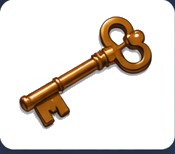
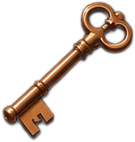
Add files via upload

diff --git a/app.js b/app.js
@@ -1,11 +1,152 @@
-const items=[{img:'auto.png'},{img:'hut.png'},{img:'lupe.png'},{img:'schluessel.png'},{img:'kompass.png'}];
-const viewport=document.querySelector('#viewport'),world=document.querySelector('#world'),targets=document.querySelector('#targets'),toast=document.querySelector('#toast'),sparkLayer=document.querySelector('#spark-layer');let found=new Set(),lives=3,scale=1,tx=0,ty=0,pointers=new Map(),startDist=0,startScale=1,startMid=null,startTransform=null,moved=false,animating=new Set();
-function render(){targets.innerHTML=items.map((o,i)=>`<div class="target ${found.has(i)?'done':''}" data-target-id="${i}"><img src="${o.img}" alt="Suchobjekt">${found.has(i)?'<span class="check">✓</span>':''}</div>`).join('');document.querySelector('#score').textContent=`${found.size}/${items.length}`;document.querySelector('#lives').textContent=`❤ ${lives}`;document.querySelectorAll('.object').forEach((o,i)=>o.classList.toggle('gone',found.has(i)))}
-let mt;function msg(t,d=1000){clearTimeout(mt);toast.textContent=t;toast.classList.add('show');mt=setTimeout(()=>toast.classList.remove('show'),d)}
-function apply(){const r=viewport.getBoundingClientRect(),wr=world.offsetWidth*scale,hr=world.offsetHeight*scale;tx=Math.min(0,Math.max(r.width-wr,tx));ty=Math.min(0,Math.max(r.height-hr,ty));world.style.transform=`translate(${tx}px,${ty}px) scale(${scale})`}function resetView(){scale=1;tx=0;ty=0;apply()}
-function burst(x,y){for(let n=0;n<12;n++){const s=document.createElement('i'),a=Math.PI*2*n/12,dist=30+Math.random()*36;s.className='spark';s.style.left=x+'px';s.style.top=y+'px';s.style.setProperty('--dx',Math.cos(a)*dist+'px');s.style.setProperty('--dy',Math.sin(a)*dist+'px');sparkLayer.appendChild(s);setTimeout(()=>s.remove(),720)}}
-async function collect(i,obj){if(found.has(i)||animating.has(i))return;animating.add(i);const from=obj.getBoundingClientRect(),to=document.querySelector(`[data-target-id="${i}"] img`).getBoundingClientRect(),cx=from.left+from.width/2,cy=from.top+from.height/2;burst(cx,cy);const flyer=document.createElement('img');flyer.className='fly-item';flyer.src=items[i].img;Object.assign(flyer.style,{left:from.left+'px',top:from.top+'px',width:from.width+'px',height:from.height+'px'});document.body.appendChild(flyer);obj.classList.add('collecting');requestAnimationFrame(()=>requestAnimationFrame(()=>{flyer.classList.add('flying');Object.assign(flyer.style,{left:to.left+'px',top:to.top+'px',width:to.width+'px',height:to.height+'px'})}));await new Promise(r=>setTimeout(r,680));flyer.remove();found.add(i);animating.delete(i);render();const card=document.querySelector(`[data-target-id="${i}"]`);card.classList.add('landed');setTimeout(()=>card?.classList.remove('landed'),550);msg('✓ Gefunden');if(found.size===items.length)setTimeout(()=>msg('🎉 Level geschafft!',1800),650)}
-document.querySelectorAll('.object').forEach(o=>o.addEventListener('click',e=>{if(moved){e.preventDefault();return}collect(+o.dataset.id,o)}));
-viewport.addEventListener('pointerdown',e=>{viewport.setPointerCapture(e.pointerId);pointers.set(e.pointerId,{x:e.clientX,y:e.clientY,ox:e.clientX,oy:e.clientY});moved=false;if(pointers.size===2){const a=[...pointers.values()];startDist=Math.hypot(a[0].x-a[1].x,a[0].y-a[1].y);startScale=scale;startMid={x:(a[0].x+a[1].x)/2,y:(a[0].y+a[1].y)/2};startTransform={tx,ty}}});
-viewport.addEventListener('pointermove',e=>{const p=pointers.get(e.pointerId);if(!p)return;const old={x:p.x,y:p.y};p.x=e.clientX;p.y=e.clientY;if(Math.hypot(p.x-p.ox,p.y-p.oy)>7)moved=true;if(pointers.size===1&&scale>1){tx+=p.x-old.x;ty+=p.y-old.y;apply()}else if(pointers.size===2){moved=true;const a=[...pointers.values()],d=Math.hypot(a[0].x-a[1].x,a[0].y-a[1].y),ns=Math.max(1,Math.min(3.5,startScale*d/startDist)),vr=viewport.getBoundingClientRect(),mx=startMid.x-vr.left,my=startMid.y-vr.top;tx=mx-(mx-startTransform.tx)*(ns/startScale);ty=my-(my-startTransform.ty)*(ns/startScale);scale=ns;apply()}});['pointerup','pointercancel'].forEach(ev=>viewport.addEventListener(ev,e=>{pointers.delete(e.pointerId);if(!pointers.size)setTimeout(()=>moved=false,0)}));
-document.querySelector('#hint').onclick=()=>{const i=items.findIndex((_,i)=>!found.has(i)&&!animating.has(i));if(i<0)return;const o=document.querySelector(`.object[data-id="${i}"]`);o.classList.add('hint-ring');setTimeout(()=>o.classList.remove('hint-ring'),1900);msg('💡 Schau genau hin')};document.querySelector('#reset').onclick=()=>{found.clear();animating.clear();lives=3;resetView();document.querySelectorAll('.object').forEach(o=>o.classList.remove('collecting','gone'));document.querySelectorAll('.fly-item').forEach(f=>f.remove());render();msg('Neu gestartet')};render();addEventListener('resize',apply);if('serviceWorker' in navigator){navigator.serviceWorker.getRegistrations().then(rs=>rs.forEach(r=>r.unregister()));caches.keys().then(ks=>Promise.all(ks.map(k=>caches.delete(k))))}
+const items=[
+  {img:'laterne.png'},
+  {img:'stiefel.png'},
+  {img:'schluessel.png'},
+  {img:'fernglas.png'},
+  {img:'auto.png'}
+];
+
+const viewport=document.querySelector('#viewport');
+const world=document.querySelector('#world');
+const targets=document.querySelector('#targets');
+const toast=document.querySelector('#toast');
+const sparkLayer=document.querySelector('#spark-layer');
+
+let found=new Set();
+let lives=3;
+let scale=1,tx=0,ty=0;
+let pointers=new Map();
+let startDist=0,startScale=1,startMid=null,startTransform=null;
+let moved=false;
+let animating=new Set();
+
+function render(){
+  targets.innerHTML=items.map((o,i)=>`<div class="target ${found.has(i)?'done':''}" data-target-id="${i}"><img src="${o.img}" alt="Suchobjekt">${found.has(i)?'<span class="check">✓</span>':''}</div>`).join('');
+  document.querySelector('#score').textContent=`${found.size}/${items.length}`;
+  document.querySelector('#lives').textContent=`❤ ${lives}`;
+  document.querySelectorAll('.object').forEach((o)=>o.classList.toggle('gone',found.has(+o.dataset.id)));
+}
+
+let mt;
+function msg(t,d=1000){clearTimeout(mt);toast.textContent=t;toast.classList.add('show');mt=setTimeout(()=>toast.classList.remove('show'),d)}
+
+function clamp(){
+  const r=viewport.getBoundingClientRect();
+  const wr=world.offsetWidth*scale,hr=world.offsetHeight*scale;
+  tx=wr<=r.width?(r.width-wr)/2:Math.min(0,Math.max(r.width-wr,tx));
+  ty=hr<=r.height?(r.height-hr)/2:Math.min(0,Math.max(r.height-hr,ty));
+}
+function apply(){clamp();world.style.transform=`translate(${tx}px,${ty}px) scale(${scale})`}
+function resetView(){
+  scale=1;
+  requestAnimationFrame(()=>{tx=(viewport.clientWidth-world.offsetWidth)/2;ty=0;apply()});
+}
+
+function burst(x,y){
+  for(let n=0;n<12;n++){
+    const s=document.createElement('i');
+    const a=Math.PI*2*n/12,dist=30+Math.random()*36;
+    s.className='spark';s.style.left=x+'px';s.style.top=y+'px';
+    s.style.setProperty('--dx',Math.cos(a)*dist+'px');s.style.setProperty('--dy',Math.sin(a)*dist+'px');
+    sparkLayer.appendChild(s);setTimeout(()=>s.remove(),720);
+  }
+}
+
+async function collect(i,obj){
+  if(found.has(i)||animating.has(i))return;
+  animating.add(i);
+  const from=obj.getBoundingClientRect();
+  const targetImg=document.querySelector(`[data-target-id="${i}"] img`);
+  const to=targetImg.getBoundingClientRect();
+  burst(from.left+from.width/2,from.top+from.height/2);
+
+  const flyer=document.createElement('img');
+  flyer.className='fly-item';flyer.src=items[i].img;
+  Object.assign(flyer.style,{left:from.left+'px',top:from.top+'px',width:from.width+'px',height:from.height+'px'});
+  document.body.appendChild(flyer);
+  obj.classList.add('collecting');
+
+  requestAnimationFrame(()=>requestAnimationFrame(()=>{
+    flyer.classList.add('flying');
+    Object.assign(flyer.style,{left:to.left+'px',top:to.top+'px',width:to.width+'px',height:to.height+'px'});
+  }));
+
+  await new Promise(r=>setTimeout(r,680));
+  flyer.remove();
+  found.add(i);animating.delete(i);render();
+  const card=document.querySelector(`[data-target-id="${i}"]`);
+  card.classList.add('landed');setTimeout(()=>card?.classList.remove('landed'),550);
+  msg('✓ Gefunden');
+  if(found.size===items.length)setTimeout(()=>msg('🎉 Level geschafft!',1800),650);
+}
+
+document.querySelectorAll('.object').forEach(o=>o.addEventListener('click',e=>{
+  if(moved){e.preventDefault();return}
+  collect(+o.dataset.id,o);
+}));
+
+viewport.addEventListener('pointerdown',e=>{
+  viewport.setPointerCapture(e.pointerId);
+  pointers.set(e.pointerId,{x:e.clientX,y:e.clientY,ox:e.clientX,oy:e.clientY});
+  moved=false;
+  if(pointers.size===2){
+    const a=[...pointers.values()];
+    startDist=Math.hypot(a[0].x-a[1].x,a[0].y-a[1].y);
+    startScale=scale;
+    startMid={x:(a[0].x+a[1].x)/2,y:(a[0].y+a[1].y)/2};
+    startTransform={tx,ty};
+  }
+});
+
+viewport.addEventListener('pointermove',e=>{
+  const p=pointers.get(e.pointerId);if(!p)return;
+  const old={x:p.x,y:p.y};p.x=e.clientX;p.y=e.clientY;
+  if(Math.hypot(p.x-p.ox,p.y-p.oy)>7)moved=true;
+
+  if(pointers.size===1){
+    const r=viewport.getBoundingClientRect();
+    const canPan=world.offsetWidth*scale>r.width+1||world.offsetHeight*scale>r.height+1;
+    if(canPan){tx+=p.x-old.x;ty+=p.y-old.y;apply()}
+  }else if(pointers.size===2){
+    moved=true;
+    const a=[...pointers.values()];
+    const d=Math.hypot(a[0].x-a[1].x,a[0].y-a[1].y);
+    const ns=Math.max(1,Math.min(3.5,startScale*d/startDist));
+    const vr=viewport.getBoundingClientRect();
+    const mx=startMid.x-vr.left,my=startMid.y-vr.top;
+    tx=mx-(mx-startTransform.tx)*(ns/startScale);
+    ty=my-(my-startTransform.ty)*(ns/startScale);
+    scale=ns;apply();
+  }
+});
+
+['pointerup','pointercancel'].forEach(ev=>viewport.addEventListener(ev,e=>{
+  pointers.delete(e.pointerId);
+  if(!pointers.size)setTimeout(()=>moved=false,0);
+}));
+
+document.querySelector('#hint').onclick=()=>{
+  const i=items.findIndex((_,i)=>!found.has(i)&&!animating.has(i));
+  if(i<0)return;
+  const o=document.querySelector(`.object[data-id="${i}"]`);
+  o.classList.add('hint-ring');setTimeout(()=>o.classList.remove('hint-ring'),1900);
+  msg('💡 Schau genau hin');
+};
+
+document.querySelector('#reset').onclick=()=>{
+  found.clear();animating.clear();lives=3;
+  document.querySelectorAll('.object').forEach(o=>o.classList.remove('collecting','gone'));
+  document.querySelectorAll('.fly-item').forEach(f=>f.remove());
+  render();resetView();msg('Neu gestartet');
+};
+
+render();
+addEventListener('resize',resetView);
+window.addEventListener('load',resetView);
+
+// Während der Entwicklung absichtlich ohne Service-Worker-Cache,
+// damit GitHub Pages auf dem iPhone immer die aktuelle Version lädt.
+if('serviceWorker' in navigator){
+  navigator.serviceWorker.getRegistrations().then(rs=>rs.forEach(r=>r.unregister()));
+  caches.keys().then(ks=>Promise.all(ks.map(k=>caches.delete(k))));
+}

diff --git a/style.css b/style.css
@@ -1,9 +1,43 @@
-*{box-sizing:border-box}html,body{margin:0;background:#29295d;color:#fff;font-family:system-ui,-apple-system,sans-serif;overscroll-behavior:none}body{height:100dvh;overflow:hidden}main{height:100dvh;max-width:600px;margin:auto;display:grid;grid-template-rows:auto minmax(0,1fr) auto;background:#35346f}header{padding:max(9px,env(safe-area-inset-top)) 14px 9px;display:flex;justify-content:space-between;align-items:center;font-size:17px;z-index:3}header small{font-size:10px;opacity:.55}#viewport{position:relative;overflow:hidden;background:#15152d;touch-action:none}#world{position:absolute;left:0;top:0;width:100%;aspect-ratio:941/1283;transform-origin:0 0;will-change:transform}#scene{width:100%;height:100%;display:block;user-select:none;-webkit-user-drag:none}.object{position:absolute;z-index:3;border:0;background:transparent;padding:0;touch-action:none}.object img{width:100%;height:100%;display:block;object-fit:fill}.object[data-id="0"]{left:52.3%;top:57.8%;width:8.5%;height:5.6%}.object[data-id="1"]{left:88.7%;top:6.7%;width:10.5%;height:8.5%}.object[data-id="2"]{left:24.5%;top:60.2%;width:12.5%;height:7.8%}.object[data-id="3"]{left:47.5%;top:65.6%;width:10.5%;height:7.2%}.object[data-id="4"]{left:0;top:61.5%;width:12%;height:8.8%}.object.gone{visibility:hidden}.object.collecting{opacity:0;pointer-events:none}#toast{position:absolute;z-index:8;left:50%;top:9%;transform:translateX(-50%);padding:9px 15px;border-radius:18px;background:#24234cdd;opacity:0;transition:.2s;white-space:nowrap;pointer-events:none;box-shadow:0 4px 18px #0005}.show{opacity:1!important}#spark-layer{position:fixed;inset:0;z-index:1000;pointer-events:none}.spark{position:absolute;width:8px;height:8px;margin:-4px;border-radius:50%;background:#ffd85f;box-shadow:0 0 10px #fff2a8;animation:spark .7s ease-out forwards}@keyframes spark{to{transform:translate(var(--dx),var(--dy)) scale(.1);opacity:0}}.fly-item{position:fixed;z-index:999;object-fit:contain;border-radius:10px;pointer-events:none;filter:drop-shadow(0 0 7px #ffe167) drop-shadow(0 5px 7px #0008);transition:left .62s cubic-bezier(.2,.75,.25,1),top .62s cubic-bezier(.2,.75,.25,1),width .62s cubic-bezier(.2,.75,.25,1),height .62s cubic-bezier(.2,.75,.25,1),transform .62s,opacity .62s}.fly-item.flying{transform:scale(.88) rotate(7deg);opacity:.96}.panel{z-index:5;padding:9px 10px calc(8px + env(safe-area-inset-bottom));background:#302f68;box-shadow:0 -5px 18px #1115}.row{display:flex;justify-content:space-between;align-items:center;margin-bottom:7px;font-size:14px}#targets{display:grid;grid-template-columns:repeat(5,1fr);gap:7px}.target{position:relative;background:#fff;border-radius:13px;padding:5px;min-width:0;height:62px;display:grid;place-items:center;transition:.2s}.target img{width:100%;height:52px;display:block;object-fit:contain;border-radius:8px}.target.done{background:#e8ffe9}.target.done img{opacity:.3}.check{position:absolute;right:4px;top:4px;display:grid;place-items:center;width:22px;height:22px;border-radius:50%;background:#35b95d;color:white;font-weight:900;font-size:15px;box-shadow:0 2px 5px #0004}.target.landed{animation:land .5s ease}@keyframes land{40%{transform:scale(1.09);box-shadow:0 0 0 4px #ffe676,0 0 20px #ffe676}100%{transform:scale(1)}}.controls{display:flex;justify-content:center;gap:48px;margin-top:7px}.controls button{border:0;background:#6f6bd1;color:#fff;width:62px;height:48px;border-radius:19px;font-size:20px}.controls small{display:block;font-size:9px}.hint-ring{outline:5px solid #fff8;outline-offset:3px;animation:pulse .65s alternate 3}@keyframes pulse{to{outline-width:10px;outline-color:#fff2}}@media(min-width:700px){body{display:grid;place-items:center}main{height:min(900px,100dvh);width:430px;border-radius:20px;overflow:hidden}}
-/* v0.6: complete transparent search objects as true removable layers */
-.object img{object-fit:contain;filter:drop-shadow(0 2px 2px #0006)}
-.object[data-id="0"]{left:69%;top:72%;width:10%;height:6%}
-.object[data-id="1"]{left:9%;top:42%;width:12%;height:8%}
-.object[data-id="2"]{left:48%;top:62%;width:11%;height:7%}
-.object[data-id="3"]{left:76%;top:51%;width:10%;height:7%}
-.object[data-id="4"]{left:31%;top:26%;width:9%;height:7%}
-.target{height:70px;padding:4px}.target img{height:62px;object-fit:contain;border-radius:0}
+*{box-sizing:border-box}
+html,body{margin:0;background:#29295d;color:#fff;font-family:system-ui,-apple-system,sans-serif;overscroll-behavior:none}
+body{height:100dvh;overflow:hidden}
+button{font:inherit}
+main{height:100dvh;max-width:600px;margin:auto;display:grid;grid-template-rows:auto minmax(0,1fr) auto;background:#35346f}
+header{padding:max(9px,env(safe-area-inset-top)) 14px 9px;display:flex;justify-content:space-between;align-items:center;font-size:17px;z-index:10}
+header small{font-size:10px;opacity:.58}
+#viewport{position:relative;overflow:hidden;background:#15152d;touch-action:none;min-height:0}
+#world{position:absolute;left:0;top:0;height:100%;aspect-ratio:1536/690;transform-origin:0 0;will-change:transform}
+#scene{width:100%;height:100%;display:block;object-fit:fill;user-select:none;-webkit-user-drag:none;pointer-events:none}
+.object{position:absolute;z-index:3;border:0;background:transparent;padding:0;margin:0;touch-action:none;transform-origin:center center;filter:drop-shadow(0 2px 2px #0005)}
+.object img{width:100%;height:100%;display:block;object-fit:contain;pointer-events:none}
+/* Jedes Objekt wird bewusst klein und passend zur Szene platziert. */
+.object[data-id="0"]{left:44.7%;top:36.5%;width:3.8%;aspect-ratio:88/155;transform:rotate(-4deg)}
+.object[data-id="1"]{left:75.2%;top:72.5%;width:4.7%;aspect-ratio:110/154;transform:rotate(4deg)}
+.object[data-id="2"]{left:27.8%;top:30.3%;width:3.2%;aspect-ratio:135/142;transform:rotate(18deg)}
+.object[data-id="3"]{left:56.3%;top:57.8%;width:5.5%;aspect-ratio:160/138;transform:rotate(-8deg)}
+.object[data-id="4"]{left:85.5%;top:80%;width:4.8%;aspect-ratio:140/103;transform:rotate(-4deg)}
+.object.gone{visibility:hidden}
+.object.collecting{opacity:0;pointer-events:none}
+#toast{position:absolute;z-index:8;left:50%;top:8%;transform:translateX(-50%);padding:9px 15px;border-radius:18px;background:#24234ce8;opacity:0;transition:.2s;white-space:nowrap;pointer-events:none;box-shadow:0 4px 18px #0005}
+#toast.show{opacity:1}
+#spark-layer{position:fixed;inset:0;z-index:1000;pointer-events:none}
+.spark{position:absolute;width:8px;height:8px;margin:-4px;border-radius:50%;background:#ffd85f;box-shadow:0 0 10px #fff2a8;animation:spark .7s ease-out forwards}
+@keyframes spark{to{transform:translate(var(--dx),var(--dy)) scale(.1);opacity:0}}
+.fly-item{position:fixed;z-index:999;object-fit:contain;pointer-events:none;filter:drop-shadow(0 0 7px #ffe167) drop-shadow(0 5px 7px #0008);transition:left .62s cubic-bezier(.2,.75,.25,1),top .62s cubic-bezier(.2,.75,.25,1),width .62s cubic-bezier(.2,.75,.25,1),height .62s cubic-bezier(.2,.75,.25,1),transform .62s,opacity .62s}
+.fly-item.flying{transform:scale(.88) rotate(7deg);opacity:.96}
+.panel{z-index:5;padding:9px 10px calc(8px + env(safe-area-inset-bottom));background:#302f68;box-shadow:0 -5px 18px #1115}
+.row{display:flex;justify-content:space-between;align-items:center;margin-bottom:7px;font-size:14px}
+#targets{display:grid;grid-template-columns:repeat(5,1fr);gap:7px}
+.target{position:relative;background:#fff;border-radius:13px;padding:6px;min-width:0;height:72px;display:grid;place-items:center;transition:.2s;overflow:hidden}
+.target img{width:100%;height:60px;display:block;object-fit:contain}
+.target.done{background:#e8ffe9}
+.target.done img{opacity:.28}
+.check{position:absolute;right:4px;top:4px;display:grid;place-items:center;width:22px;height:22px;border-radius:50%;background:#35b95d;color:#fff;font-weight:900;font-size:15px;box-shadow:0 2px 5px #0004}
+.target.landed{animation:land .5s ease}
+@keyframes land{40%{transform:scale(1.09);box-shadow:0 0 0 4px #ffe676,0 0 20px #ffe676}100%{transform:scale(1)}}
+.controls{display:flex;justify-content:center;gap:48px;margin-top:7px}
+.controls button{border:0;background:#6f6bd1;color:#fff;width:62px;height:48px;border-radius:19px;font-size:20px}
+.controls small{display:block;font-size:9px}
+.hint-ring{outline:5px solid #fff8;outline-offset:3px;animation:pulse .65s alternate 3}
+@keyframes pulse{to{outline-width:10px;outline-color:#fff2}}
+@media(min-width:700px){body{display:grid;place-items:center}main{height:min(900px,100dvh);width:430px;border-radius:20px;overflow:hidden}}

diff --git a/index.html b/index.html
@@ -1,1 +1,42 @@
-<!doctype html><html lang="de"><head><meta charset="utf-8"><meta name="viewport" content="width=device-width,initial-scale=1,viewport-fit=cover,user-scalable=no"><meta name="theme-color" content="#302f68"><link rel="manifest" href="manifest.webmanifest"><link rel="stylesheet" href="style.css"><title>Find Hidden Objects</title></head><body><main><header><b>Find Hidden Objects <small>v0.6.1</small></b><span id="lives">❤ 3</span></header><section id="viewport"><div id="world"><img id="scene" src="scene.png" alt="Wimmelbild" draggable="false"><button class="object" data-id="0"><img src="auto.png" alt=""></button><button class="object" data-id="1"><img src="hut.png" alt=""></button><button class="object" data-id="2"><img src="lupe.png" alt=""></button><button class="object" data-id="3"><img src="schluessel.png" alt=""></button><button class="object" data-id="4"><img src="kompass.png" alt=""></button></div><div id="toast"></div><div id="spark-layer"></div></section><section class="panel"><div class="row"><strong>Finde diese Gegenstände</strong><b id="score">0/5</b></div><div id="targets"></div><div class="controls"><button id="hint">💡<small>Hinweis</small></button><button id="reset">↻<small>Neu</small></button></div></section></main><script src="app.js"></script></body></html>
+<!doctype html>
+<html lang="de">
+<head>
+  <meta charset="utf-8">
+  <meta name="viewport" content="width=device-width,initial-scale=1,viewport-fit=cover,user-scalable=no">
+  <meta name="theme-color" content="#2f2e68">
+  <link rel="manifest" href="manifest.webmanifest">
+  <link rel="stylesheet" href="style.css">
+  <title>Find Hidden Objects</title>
+</head>
+<body>
+<main>
+  <header>
+    <b>Find Hidden Objects <small>v0.7</small></b>
+    <span id="lives">❤ 3</span>
+  </header>
+
+  <section id="viewport" aria-label="Wimmelbild">
+    <div id="world">
+      <img id="scene" src="scene.png" alt="Werkstatt am See" draggable="false">
+      <button class="object" data-id="0" aria-label="Laterne"><img src="laterne.png" alt=""></button>
+      <button class="object" data-id="1" aria-label="Stiefel"><img src="stiefel.png" alt=""></button>
+      <button class="object" data-id="2" aria-label="Schlüssel"><img src="schluessel.png" alt=""></button>
+      <button class="object" data-id="3" aria-label="Fernglas"><img src="fernglas.png" alt=""></button>
+      <button class="object" data-id="4" aria-label="Auto"><img src="auto.png" alt=""></button>
+    </div>
+    <div id="toast"></div>
+    <div id="spark-layer"></div>
+  </section>
+
+  <section class="panel">
+    <div class="row"><strong>Finde diese Gegenstände</strong><b id="score">0/5</b></div>
+    <div id="targets"></div>
+    <div class="controls">
+      <button id="hint">💡<small>Hinweis</small></button>
+      <button id="reset">↻<small>Neu</small></button>
+    </div>
+  </section>
+</main>
+<script src="app.js"></script>
+</body>
+</html>
